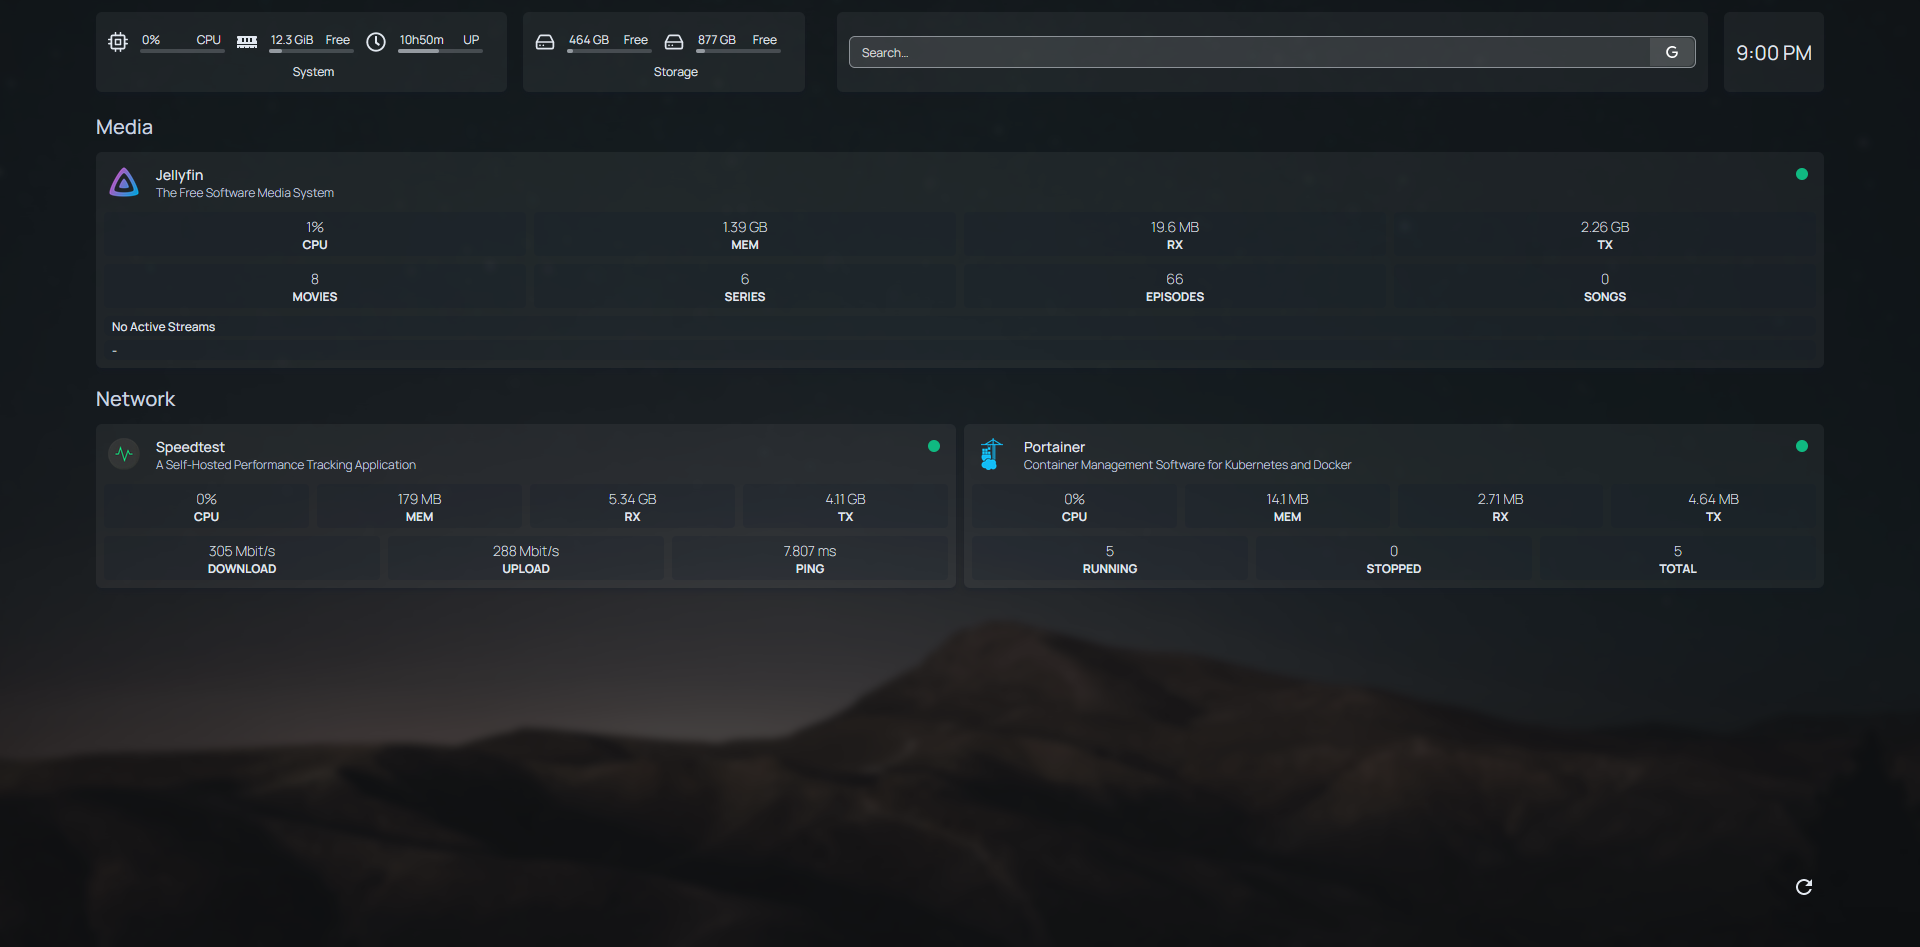
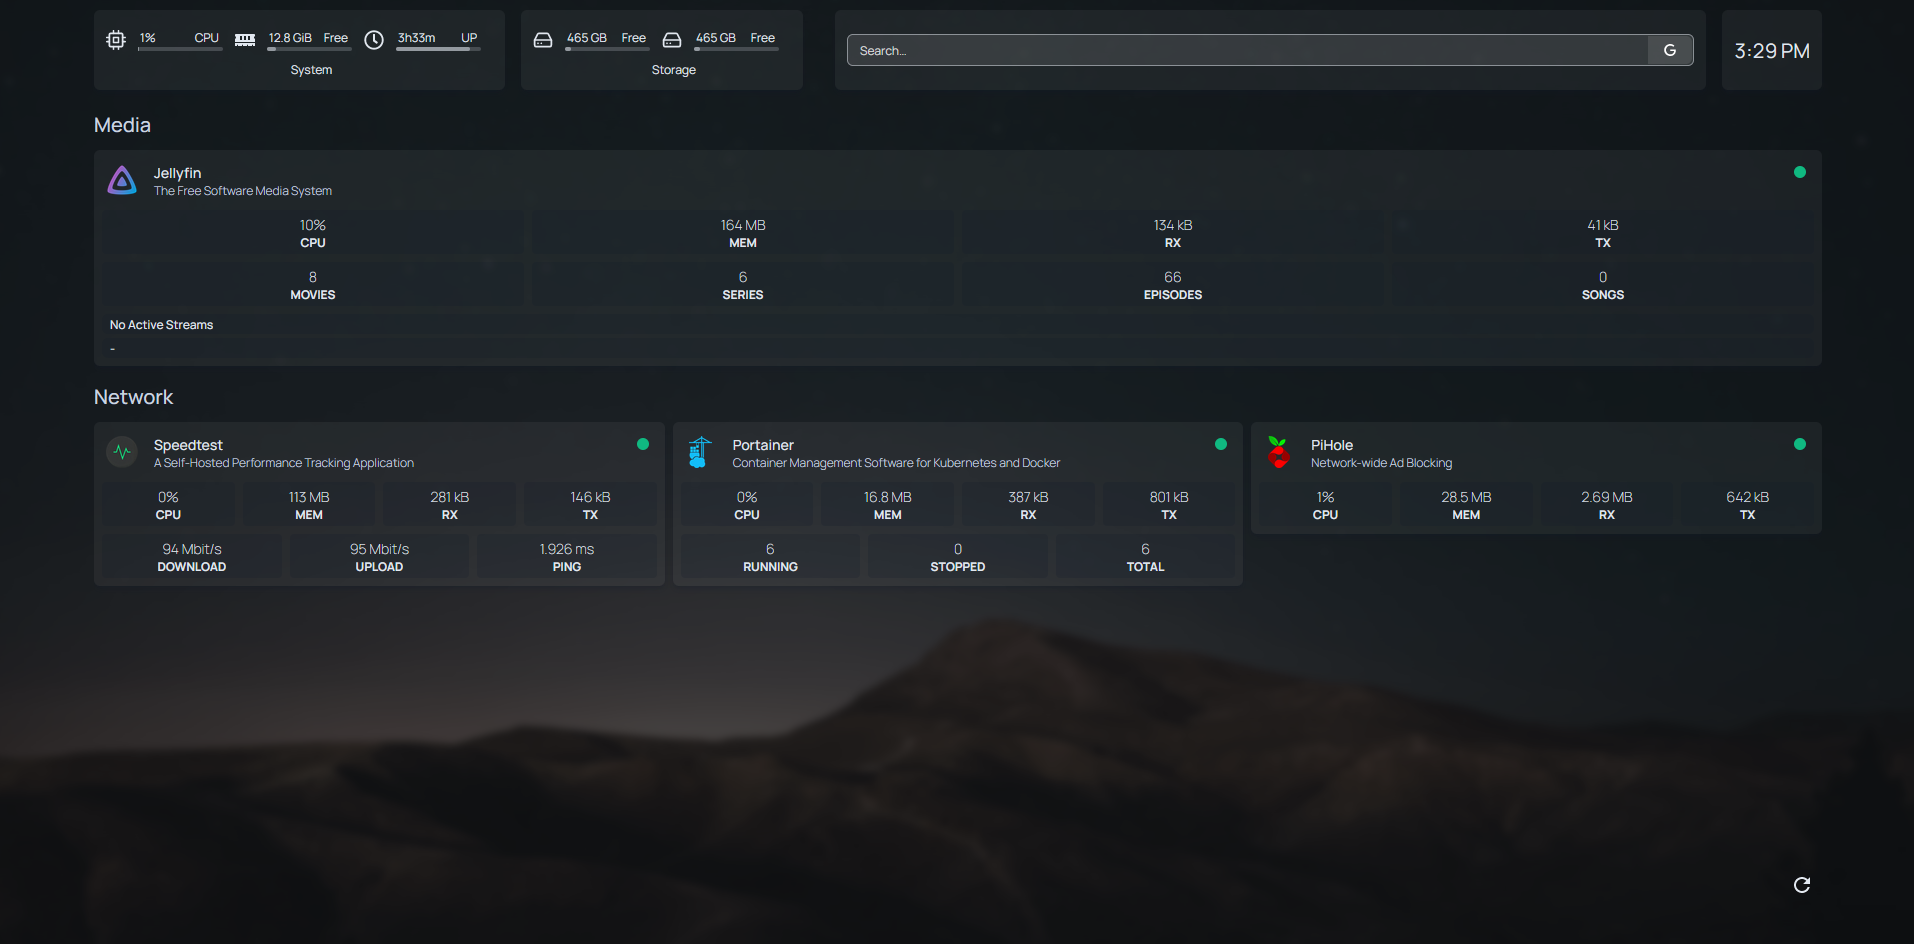
Updated README.md

diff --git a/README.md b/README.md
@@ -95,8 +95,8 @@ The list below showcases the services that are planned to be/already installed:
 - [x] [Homepage](https://gethomepage.dev/latest/)
 - [x] [Jellyfin](https://jellyfin.org/)
 - [x] [Speedtest Tracker](https://github.com/alexjustesen/speedtest-tracker)
+- [x] [Pi-Hole](https://pi-hole.net/)
 - [ ] [Atsumeru](https://github.com/AtsumeruDev/Atsumeru)
-- [ ] [Pi-Hole](https://pi-hole.net/)
 
 <p align="right">(<a href="#readme-top">back to top</a>)</p>
 
